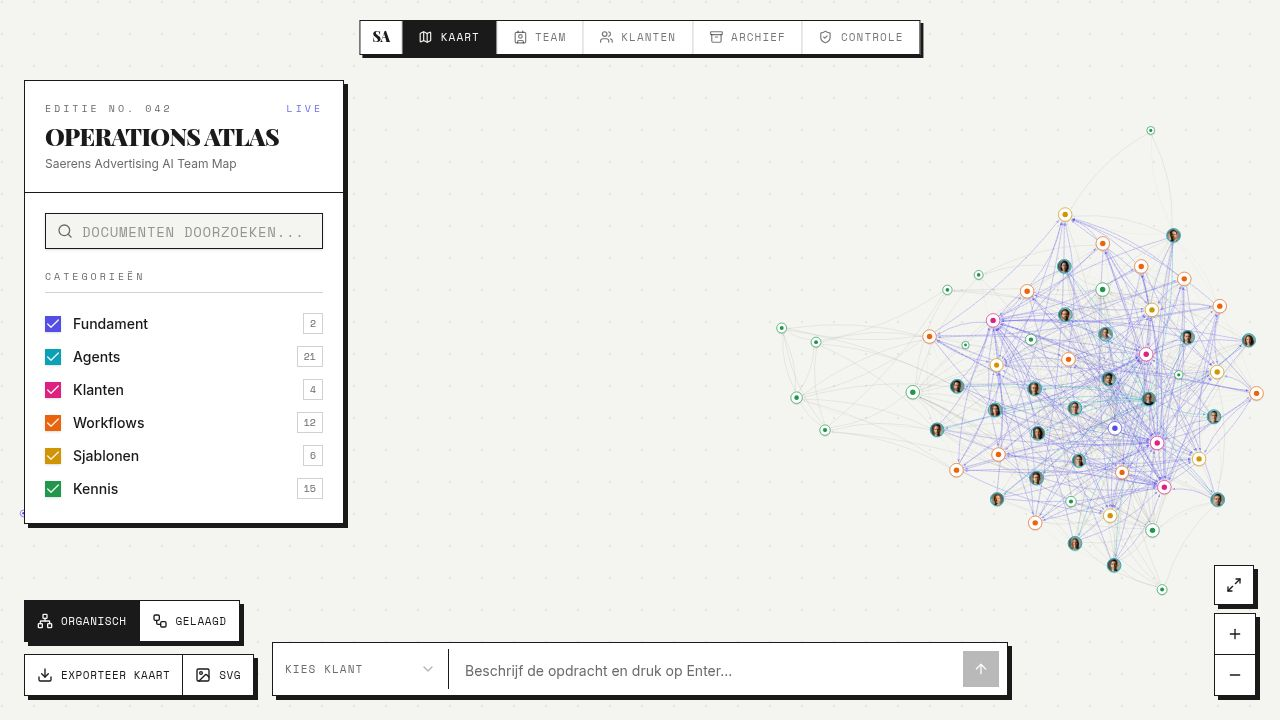
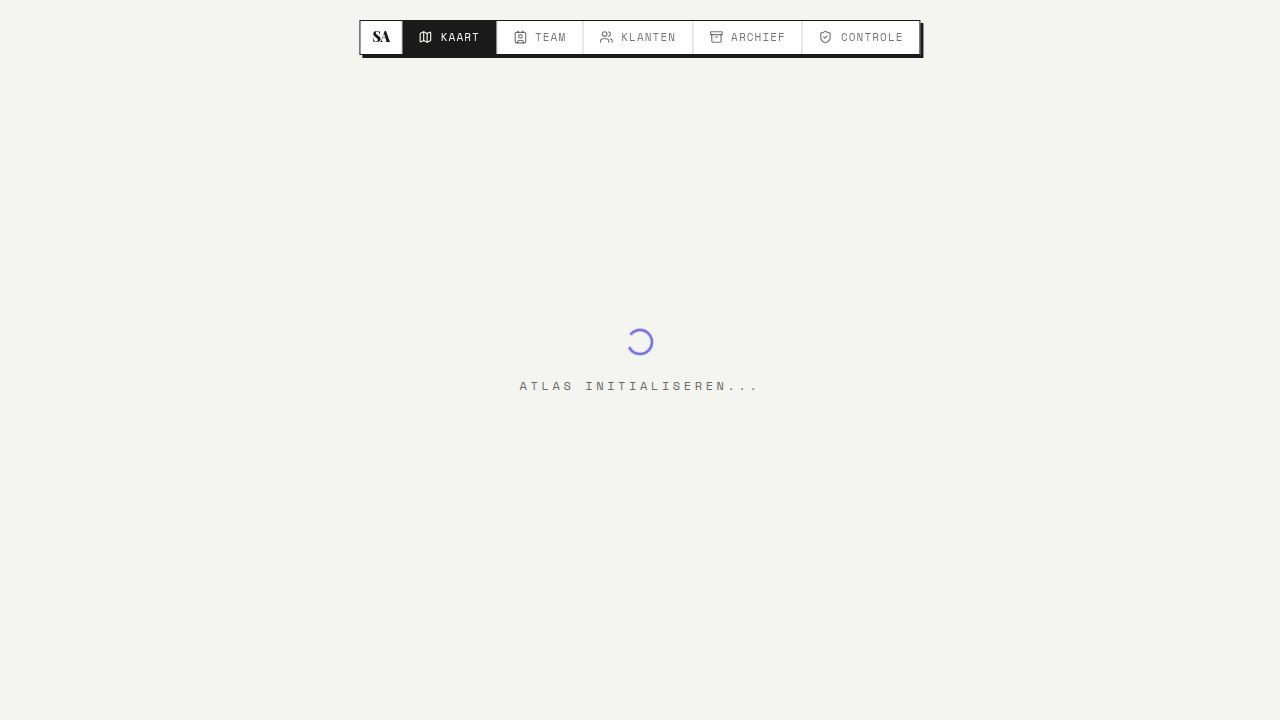
Add a live run-state legend to the Kaart
Task #33: Show a clear legend so people know what the moving dots on the
map mean during a run.

What changed:
- New component artifacts/system-map/src/components/RunLegend.tsx renders a
  compact, Dutch legend explaining the four live-run node states: Bezig
  (working/active), In wachtrij (queued), Klaar (done), Betrokken (involved).
  Each swatch is a small SVG that mirrors exactly how the node renders in
  GraphViewer (pulsing accent halo, slow-rotating dashed ring, solid ink ring,
  faint dashed accent ring), so the legend stays self-explanatory and in
  lock-step with the map visuals.
- Wired into Home.tsx: mounted inside the left column under the Operations
  Atlas card, gated behind AnimatePresence + involvedNodeIds.size > 0 so it
  only appears while a run is live and animates out when the run ends.
- Styled to the Newsroom theme (card, ink border + hard shadow, Space Mono /
  Inter). Entrance motion uses framer-motion useReducedMotion; swatch ring
  animations reuse the existing atlas-* CSS classes which already disable under
  prefers-reduced-motion.
- Pointer-events scoping: changed the left column wrapper from
  pointer-events-auto to pointer-events-none and moved pointer-events-auto onto
  the individual cards, so the gap between cards (and the legend's wrapper)
  never blocks panning the map.

Verification:
- tsc --noEmit passes for @user/system-map.
- Confirmed visually by temporarily force-showing the legend (then reverted):
[…]

diff --git a/artifacts/system-map/src/components/RunLegend.tsx b/artifacts/system-map/src/components/RunLegend.tsx
@@ -1,0 +1,145 @@
+import { motion, useReducedMotion } from "framer-motion";
+
+// Each run-state swatch mirrors exactly how the node renders on the Kaart during
+// a live run (see GraphViewer): the pulsing accent halo for the writing agent,
+// the slowly rotating dashed ring for queued members, the solid ink ring for
+// finished ones and the faint dashed accent ring for involved-but-waiting team.
+// Keeping the visuals in lock-step with the map is what makes the legend
+// self-explanatory.
+const SEAL_R = 6;
+
+function Seal() {
+  return (
+    <>
+      <circle cx={16} cy={16} r={SEAL_R} fill="hsl(var(--card))" stroke="hsl(var(--foreground))" strokeWidth={1.5} />
+      <circle cx={16} cy={16} r={2.4} fill="hsl(var(--foreground))" />
+    </>
+  );
+}
+
+const SWATCHES: {
+  id: string;
+  label: string;
+  hint: string;
+  render: (reduced: boolean) => React.ReactNode;
+}[] = [
+  {
+    id: "working",
+    label: "Bezig",
+    hint: "Schrijft nu",
+    render: (reduced) => (
+      <>
+        <circle
+          cx={16}
+          cy={16}
+          r={11}
+          fill="hsl(var(--accent))"
+          opacity={0.15}
+          className={reduced ? "" : "atlas-node-pulse"}
+        />
+        <circle cx={16} cy={16} r={9} fill="none" stroke="hsl(var(--accent))" strokeWidth={2} opacity={0.9} />
+        <Seal />
+      </>
+    ),
+  },
+  {
+    id: "queued",
+    label: "In wachtrij",
+    hint: "Wacht op de beurt",
+    render: (reduced) => (
+      <>
+        <circle
+          cx={16}
+          cy={16}
+          r={9}
+          fill="none"
+          stroke="hsl(var(--muted-foreground))"
+          strokeWidth={1.5}
+          opacity={0.6}
+          strokeDasharray="4,5"
+          className={reduced ? "" : "atlas-spin-slow"}
+        />
+        <Seal />
+      </>
+    ),
+  },
+  {
+    id: "done",
+    label: "Klaar",
+    hint: "Bijdrage geleverd",
+    render: () => (
+      <>
+        <circle cx={16} cy={16} r={9} fill="none" stroke="hsl(var(--foreground))" strokeWidth={2} opacity={0.35} />
+        <Seal />
+      </>
+    ),
+  },
+  {
+    id: "involved",
+    label: "Betrokken",
+    hint: "Onderdeel van het team",
+    render: () => (
+      <>
+        <circle
+          cx={16}
+          cy={16}
+          r={9}
+          fill="none"
+          stroke="hsl(var(--accent))"
+          strokeWidth={1.5}
+          opacity={0.5}
+          strokeDasharray="3,4"
+        />
+        <Seal />
+      </>
+    ),
+  },
+];
+
+/**
+ * A compact, Dutch legend explaining the live-run node states. Only mounted
+ * while a run is active (controlled by the parent). The card captures pointer
+ * events but the surrounding wrapper does not, so it never blocks panning the
+ * map. Entrance motion is skipped under prefers-reduced-motion.
+ */
+export default function RunLegend() {
+  const reduce = useReducedMotion();
+  return (
+    <motion.div
+      className="pointer-events-none w-64"
+      initial={reduce ? false : { opacity: 0, y: 12 }}
+      animate={{ opacity: 1, y: 0 }}
+      exit={reduce ? { opacity: 1 } : { opacity: 0, y: 12 }}
+      transition={{ duration: 0.25, ease: [0.16, 1, 0.3, 1] }}
+      data-testid="run-legend"
+    >
+      <div className="pointer-events-auto bg-card border border-foreground shadow-[4px_4px_0px_hsl(var(--foreground))] overflow-hidden">
+        <div className="flex items-baseline justify-between border-b border-foreground px-4 py-2.5">
+          <span className="font-['Space_Mono'] text-[10px] uppercase tracking-[0.3em] text-muted-foreground">
+            Tijdens een run
+          </span>
+          <span className="font-['Space_Mono'] text-[10px] uppercase tracking-[0.3em] text-accent">
+            Live
+          </span>
+        </div>
+        <ul className="flex flex-col gap-2.5 px-4 py-3.5">
+          {SWATCHES.map((s) => (
+            <li key={s.id} className="flex items-center gap-3" data-testid={`run-legend-${s.id}`}>
+              <svg width={32} height={32} className="shrink-0 overflow-visible" aria-hidden="true">
+                {s.render(!!reduce)}
+              </svg>
+              <div className="flex flex-col leading-tight">
+                <span className="font-['Inter'] text-sm font-semibold text-foreground">
+                  {s.label}
+                </span>
+                <span className="font-['Inter'] text-[11px] text-muted-foreground">
+                  {s.hint}
+                </span>
+              </div>
+            </li>
+          ))}
+        </ul>
+      </div>
+    </motion.div>
+  );
+}

diff --git a/artifacts/system-map/src/pages/Home.tsx b/artifacts/system-map/src/pages/Home.tsx
@@ -4,6 +4,7 @@ import { AnimatePresence } from "framer-motion";
 import { useGetDocGraph, useGetTeam } from "@workspace/api-client-react";
 import GraphViewer from "@/components/GraphViewer";
 import GraphLegend from "@/components/GraphLegend";
+import RunLegend from "@/components/RunLegend";
 import GraphSearch from "@/components/GraphSearch";
 import DocPanel from "@/components/DocPanel";
 import CommandBar from "@/components/CommandBar";
@@ -188,8 +189,8 @@ export default function Home() {
       <div className="absolute inset-0 z-10 pointer-events-none p-6 pt-20 flex justify-between items-start">
         
         {/* Left column: Legend & Search */}
-        <div className="w-80 flex flex-col gap-6 pointer-events-auto">
-          <div className="bg-card border border-foreground shadow-[4px_4px_0px_hsl(var(--foreground))] overflow-hidden flex flex-col">
+        <div className="w-80 flex flex-col gap-6 pointer-events-none">
+          <div className="pointer-events-auto bg-card border border-foreground shadow-[4px_4px_0px_hsl(var(--foreground))] overflow-hidden flex flex-col">
             <div className="p-5 border-b border-foreground">
               <div className="flex items-baseline justify-between mb-1">
                 <span className="font-['Space_Mono'] text-[10px] uppercase tracking-[0.3em] text-muted-foreground">
@@ -223,6 +224,12 @@ export default function Home() {
               />
             </div>
           </div>
+
+          {/* Run-state legend: only present while a run is live, so the moving
+              rings/pulses on the map become self-explanatory. */}
+          <AnimatePresence>
+            {involvedNodeIds.size > 0 && <RunLegend key="run-legend" />}
+          </AnimatePresence>
         </div>
 
         {/* Right column: Document Panel */}